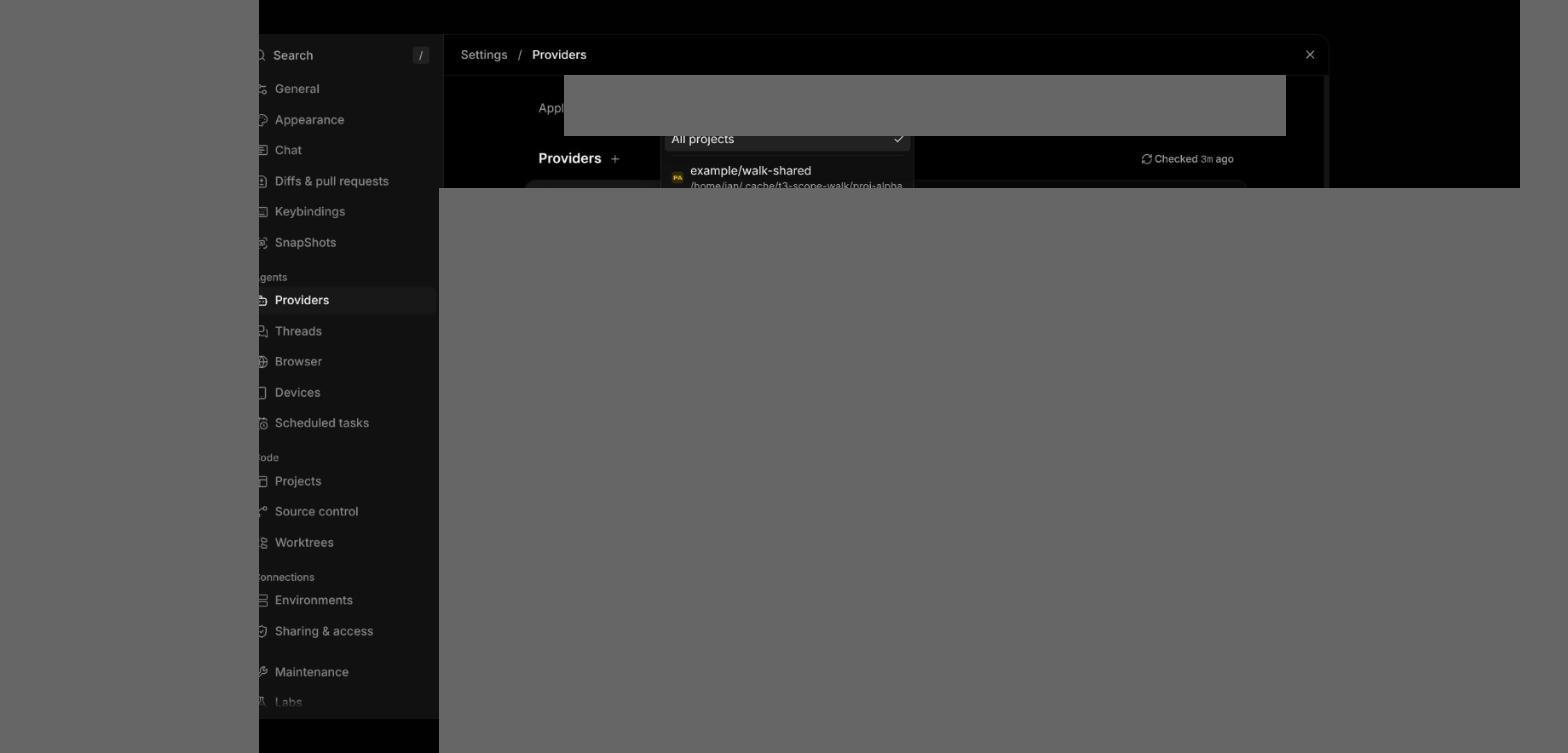
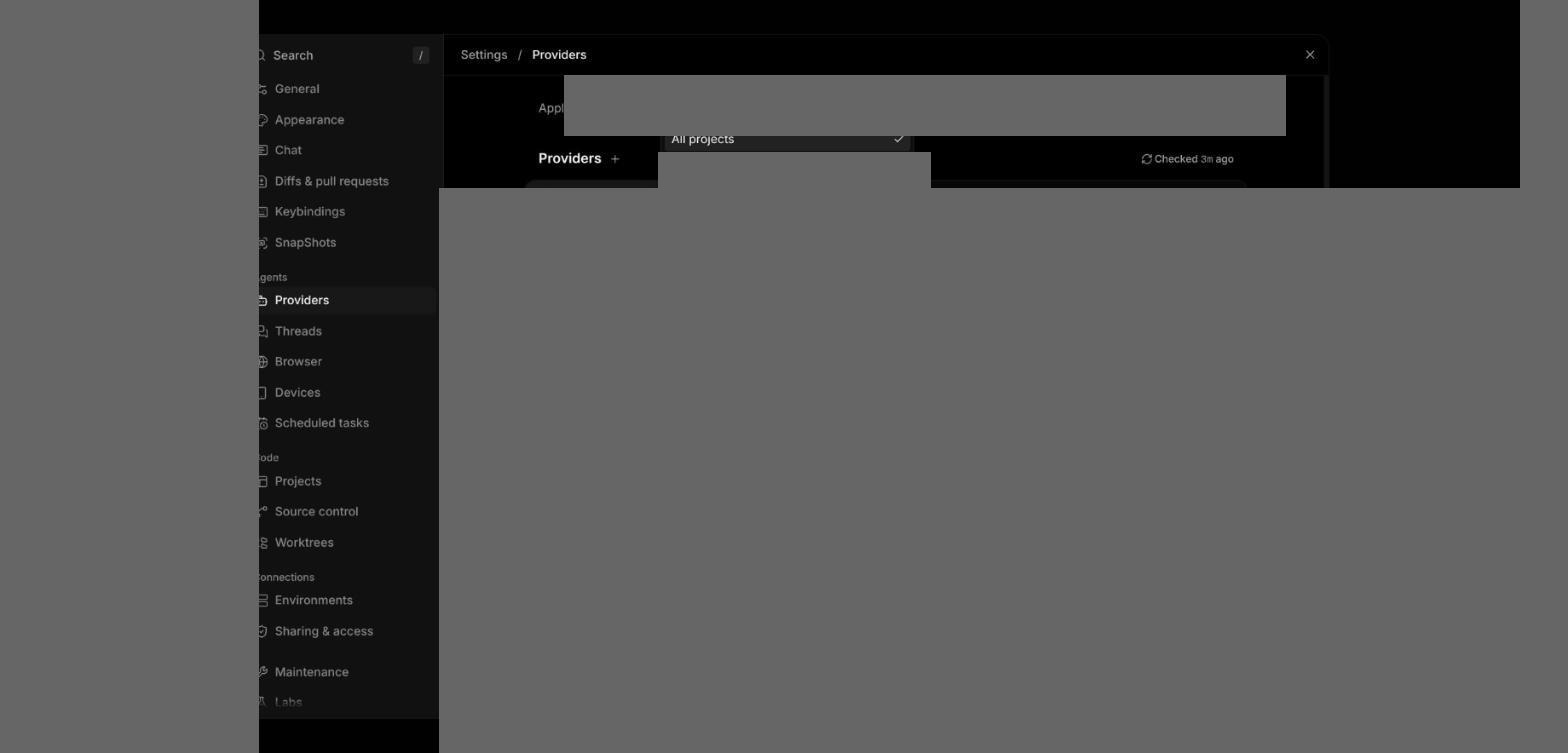
docs(3614): remove private capture reference and complete privacy masks

Changed region(s): [[0.4062, 0.1833, 0.5938, 0.2749]]

diff --git a/docs/research/research-docs-placement-2026-11-08.md b/docs/research/research-docs-placement-2026-11-08.md
@@ -70,7 +70,7 @@ In this worktree, `docs/{verify,research,design}` hold 3,452 of 6,670 ripgrep-vi
 | Token-shaped strings | 40 files; all sampled are fixtures (`[REDACTED fixture]`, `[REDACTED fixture]`) | measured |
 | Third-party UI captures by filename | t3code 85, Amp 28, Claude 19, Cursor 8 | measured |
 
-Sampled captures show the owner's own claude.ai conversation and model selection ([`M20-claudeai-500px-reply.jpg`](https://github.com/xiechimon/cairn/blob/1f0b42d3a0c8d35c1bb05fd0b8012e6a4dd6b6d2/docs/research/ui-ux-audit-2026-11-06/M20-claudeai-500px-reply.jpg)) and his Cursor workspace with partial redaction (`R10-cursor-agents-home.jpg`) (measured). The project rules forbid committing "internal addresses, personal information" ([`CLAUDE.md`](https://github.com/xiechimon/cairn/blob/1f0b42d3a0c8d35c1bb05fd0b8012e6a4dd6b6d2/CLAUDE.md)); the rows above break that rule in letter (inferred). GitHub's [Acceptable Use Policies](https://docs.github.com/en/site-policy/acceptable-use-policies/github-acceptable-use-policies) §3 bar content that infringes copyright or exposes third-party personal data (measured read). Whether comparison screenshots of other products are fair use, and whether Cursor/Amp terms restrict publishing them, was not checked against their terms and is not legal advice (unverified: low risk for comparison use, but the downside lands on a public repo forever).
+Sampled account captures contain private conversation and workspace content (measured). Identifying filenames and direct links are withheld from this public note; existing main-branch capture cleanup is tracked in [#3674](https://github.com/xiechimon/cairn/issues/3674). The project rules forbid committing "internal addresses, personal information" ([`CLAUDE.md`](https://github.com/xiechimon/cairn/blob/1f0b42d3a0c8d35c1bb05fd0b8012e6a4dd6b6d2/CLAUDE.md)); the rows above break that rule in letter (inferred). GitHub's [Acceptable Use Policies](https://docs.github.com/en/site-policy/acceptable-use-policies/github-acceptable-use-policies) §3 bar content that infringes copyright or exposes third-party personal data (measured read). Whether comparison screenshots of other products are fair use, and whether Cursor/Amp terms restrict publishing them, was not checked against their terms and is not legal advice (unverified: low risk for comparison use, but the downside lands on a public repo forever).
 
 ### 1.9 Review noise
 
